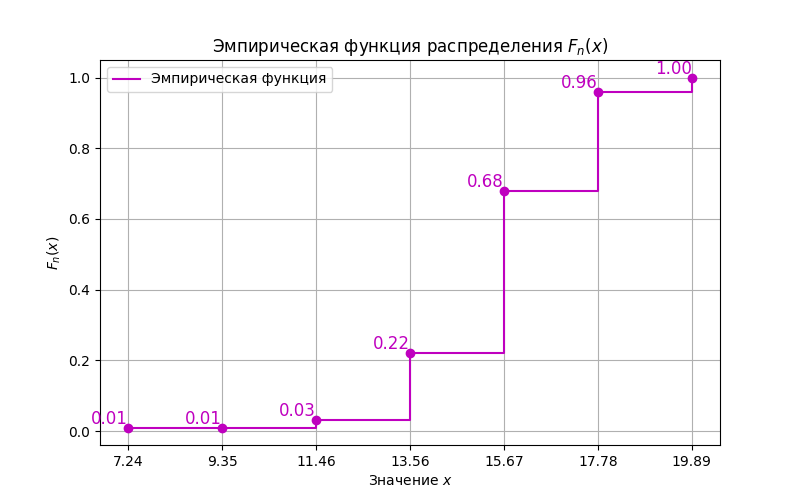
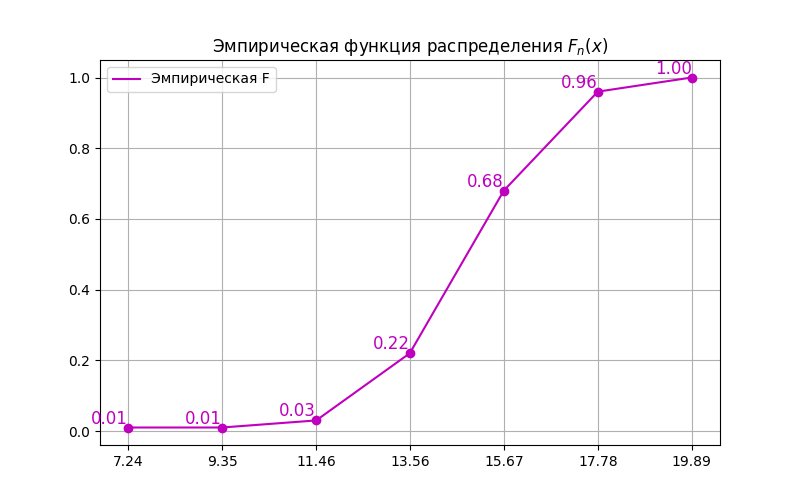
fix plot

diff --git a/src/solutions/1.py b/src/solutions/1.py
@@ -116,7 +116,7 @@ for i, val in enumerate(Y):
 plt.xticks(X, labels=[str(m) for m in X])
 
 plt.tight_layout()
-plt.savefig('1.14.png')
+plt.savefig('../../plots/1.1.4.png')
 plt.close()
 
 
@@ -133,13 +133,13 @@ plt.close()
 # для соответствующих интервалов.
 
 plt.xlabel('Значение $x$')
-X = intervals[1:] 
+X = intervals[1:]
 X = np.round(X, 2)
 plt.ylabel('$F_n(x)$')
 Y = accum_rel_freqs
 
 plt.figure(figsize=(8, 5))
-plt.step(X, Y, where='post', color='m', label='Эмпирическая F')
+plt.plot(X, Y, color='m', label='Эмпирическая F')
 plt.scatter(X, Y, color='m', zorder=3)
 for i, val in enumerate(Y):
     plt.text(X[i], val, f'{val:.2f}', ha='right', va='bottom', color='m', fontsize=12)
@@ -147,7 +147,7 @@ plt.xticks(X, labels=[str(m) for m in X])
 plt.title('Эмпирическая функция распределения $F_n(x)$')
 plt.grid(True)
 plt.legend()
-plt.savefig('1.1.5.png')
+plt.savefig('../../plots/1.1.5.png')
 
 
 
@@ -171,7 +171,7 @@ plt.xticks(X, labels=[str(m) for m in X])
 plt.title('Эмпирическая F (дискретный вариационный ряд)')
 plt.grid(True)
 plt.legend()
-plt.savefig('1.1.6.png')
+plt.savefig('../../plots/1.1.6.png')
 
 
 
